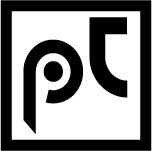
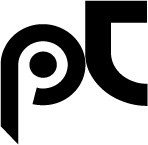
mdx formating

diff --git a/src/templates/experience.js b/src/templates/experience.js
@@ -1,36 +1,39 @@
 import {Link, graphql} from "gatsby";
 import {MDXRenderer} from "gatsby-plugin-mdx";
 import React from "react";
+import {BsArrowRight, BsArrowLeft} from 'react-icons/bs';
 const expPosts = (data) =>{
     const {body,frontmatter} = data.data.mdx; 
     
-    const {previous,next} = data.pageContext;
-    console.log(previous);
-    console.log(next);
+    const {previous,next} = data.pageContext;  
+    console.log(previous) ;
     return (
         <>
-            <h1>{frontmatter.title}</h1>
+            <h1>{previous.slug}</h1>
+            <h1>{frontmatter.role}</h1>
             <p>{frontmatter.date}</p>
             <p>Duration: {frontmatter.startDate} - {frontmatter.endDate}</p>
             <article><MDXRenderer>{body}</MDXRenderer></article>
-            {previous === false ? null : (
+            <div className="flex flex-col md:flex-row justify-between">
+            {(previous==false) ? <span className="not-sr-only"></span> : (
                 <>
                 {previous && (
-                    <Link to={`/${previous.slug}`}>
-                        <button>{previous.frontmatter.title}</button>
+                    <Link className="my-3 p-1 text-lg duration-150 transform hover:scale-105 inline-block" style={{border:'1px solid var(--color-gray700)'}} to={`/${previous.slug}`}>
+                        <button><BsArrowLeft className="inline-block"/>{previous.frontmatter.role}</button>                        
                     </Link>
                 )}
                 </>
             )}
-            {next === false ? null : (
+            {next == false ? <span className="not-sr-only"></span> : (
                 <>
                 {next && (
-                    <Link to={`/${next.slug}`}>
-                        <button>{next.frontmatter.title}</button>
+                    <Link className="my-3 p-1 text-lg duration-150 transform hover:scale-105 inline-block" style={{border:'1px solid var(--color-gray700)'}} to={`/${next.slug}`}>
+                        {next.frontmatter.role}<BsArrowRight className="inline-block"/>
                     </Link>
                 )}
                 </>
             )}
+            </div>
         </>
     )
 };
@@ -40,7 +43,7 @@ query PostsByExp($slug:String){
     mdx(slug:{eq:$slug}){
         body
         frontmatter{
-            title
+            role
             date(formatString:"Do MMMM YYYY")
             startDate(formatString:"Do MMMM YYYY")
             endDate(formatString:"Do MMMM YYYY")

diff --git a/src/components/sitewideComponents/header.js b/src/components/sitewideComponents/header.js
@@ -16,11 +16,11 @@ function Header() {
     return(
         <>
                 <div className="z-30">
-                    <span className="sm:hidden z-20 absolute right-0 py-12 z-50 max-w-screen-xl focus:outline-none" onClick={toggleMenu}>
+                    <span className="sm:hidden absolute right-0 py-12 z-50 max-w-screen-xl focus:outline-none" onClick={toggleMenu}>
                         <BiMenu className="w-8 h-8" style={{transform:'scale(1.8)'}} />
                     </span>
                 </div>
-                <div className={menu ? "container m-auto sm:px-12 px-5 max-w-screen-xl  h-32 overflow-hidden z-30":"container m-auto max-w-screen-xl fixer z-30"}>
+                <div className={menu ? "m-auto px-3 mt-16 sm:px-12 md:px-20 max-w-screen-xl":"container m-auto max-w-screen-xl fixer z-30"}>
                     <nav className="flex space-x-6 items-center justify-center md:justify-start text-sm sm:flex flex-col md:flex-row z-30">
                         <div style={{dislay:'inline-block',width:'50px',float:'left',padding:'1rem 1rem 0 0'}}>                
                             <svg id="Layer_1" className="h-12 sm:h-10 w-12 sm:w-10 fill-current hover:text-accent transition duration-150 float-left" data-name="Layer 1" width="45px" viewBox="0 0 500 500" preserveAspectRatio="none"><path d="M164.7,331.7a171.94,171.94,0,0,1-37.15-4l15.06-61.24C149.14,269,156.16,270,164.7,270a91,91,0,0,0,34.63-7A87.66,87.66,0,0,0,247,215.24a91.44,91.44,0,0,0,7-35.14A86.42,86.42,0,0,0,247,146,90,90,0,0,0,228,117.85a86.74,86.74,0,0,0-28.62-19.07,88.83,88.83,0,0,0-69.27,0,86.7,86.7,0,0,0-28.61,19.07A90,90,0,0,0,82.37,146a86.42,86.42,0,0,0-7,34.13V478.28L13.1,410.51V180.1a146.42,146.42,0,0,1,12-58.73c8-18.58,18.57-34.64,32.12-48.19a154.17,154.17,0,0,1,48.19-32.63,150.39,150.39,0,0,1,118,0,162.38,162.38,0,0,1,48.69,32.63,160.22,160.22,0,0,1,32.63,48.19,150.36,150.36,0,0,1,0,118,154.11,154.11,0,0,1-32.63,48.19,156.35,156.35,0,0,1-48.69,32.63A153.14,153.14,0,0,1,164.7,331.7Z" transform="translate(-13.1 -28)"/><path d="M459.86,261.42a87.66,87.66,0,0,1-47.69-47.69,91,91,0,0,1-7-34.63V91.25h88.34V28H342.4V182.11c.5,20.58,4.52,40.16,13.05,58.23s19.58,34.13,33.13,47.18c13.55,13.56,29.62,24.1,48.19,32.13A142.34,142.34,0,0,0,495,331.7V268.45C482,268.45,470.4,266.44,459.86,261.42Z" transform="translate(-13.1 -28)"/><circle cx="152.1" cy="152.1" r="48.69"/></svg>

diff --git a/gatsby-node.js b/gatsby-node.js
@@ -21,9 +21,6 @@ exports.createPages= async ({actions,graphql})=>{
             throw result.errors
         }
         const posts = result.data.allMdx.nodes;
-        console.log("------------------------");
-        console.log(posts.length);
-        console.log("------------------------");
         posts.forEach((post,index)=>{
             const previous = (index === 0) ? '' : posts[index-1] ;
             const next = (index === posts.length) ? '' :posts[index+1];
@@ -41,13 +38,13 @@ exports.createPages= async ({actions,graphql})=>{
 
     const about = await graphql(`{
         allMdx(
-            sort:{fields:[frontmatter___date],order:DESC}
+            sort:{fields:[frontmatter___startDate],order:DESC}
             filter: {frontmatter: {published: {eq: true}}, fileAbsolutePath: { regex: "/experience/"}}
         ){
             nodes{                
                 slug                
                 frontmatter{
-                   title 
+                   role 
                 }
             }
         }

diff --git a/src/components/aboutComponents/expList.js b/src/components/aboutComponents/expList.js
@@ -10,12 +10,11 @@ const ExpList = ()=>{
                   nodes {
                     slug
                     frontmatter {
-                      date(formatString: "DD MMMM YYYY")
-                      startDate(formatString: "DD MMMM YYYY")
-                      endDate(formatString: "DD MMMM YYYY")
+                      date(formatString: "MMMM YYYY")
+                      startDate(formatString: "MMMM YYYY")
+                      endDate(formatString: "MMMM YYYY")
                       description
                       published
-                      title
                       role
                       bullets
                       company

diff --git a/src/css/style.css b/src/css/style.css
@@ -185,7 +185,7 @@ body {
 .bg-blob{
     transform: scale(3);
     fill:var(--color-svg);
-    opacity: 0.2;
+    opacity: 0.1;
 }
 .img-container{
     transform:perspective(600px) rotateY(2deg) !important;
@@ -215,7 +215,8 @@ body {
 
 @media (max-width: 768px) { 
     .bg-blob{
-        transform: scale(3);
+        transform: scale(1);
+        max-width: 100vw;
     }   
     .background-ele{
         display:none;

diff --git a/src/components/sitewideComponents/seo.js b/src/components/sitewideComponents/seo.js
@@ -24,7 +24,7 @@ const SEO = ({description, lang, meta, title,link}) =>{
         link={[{
             rel: `icon`,
             type: `image/jpg`,
-            href: `../../img/pt.jpg`}
+            href: `../../img/pt.png`}
         ]}   
         meta={[
             {
